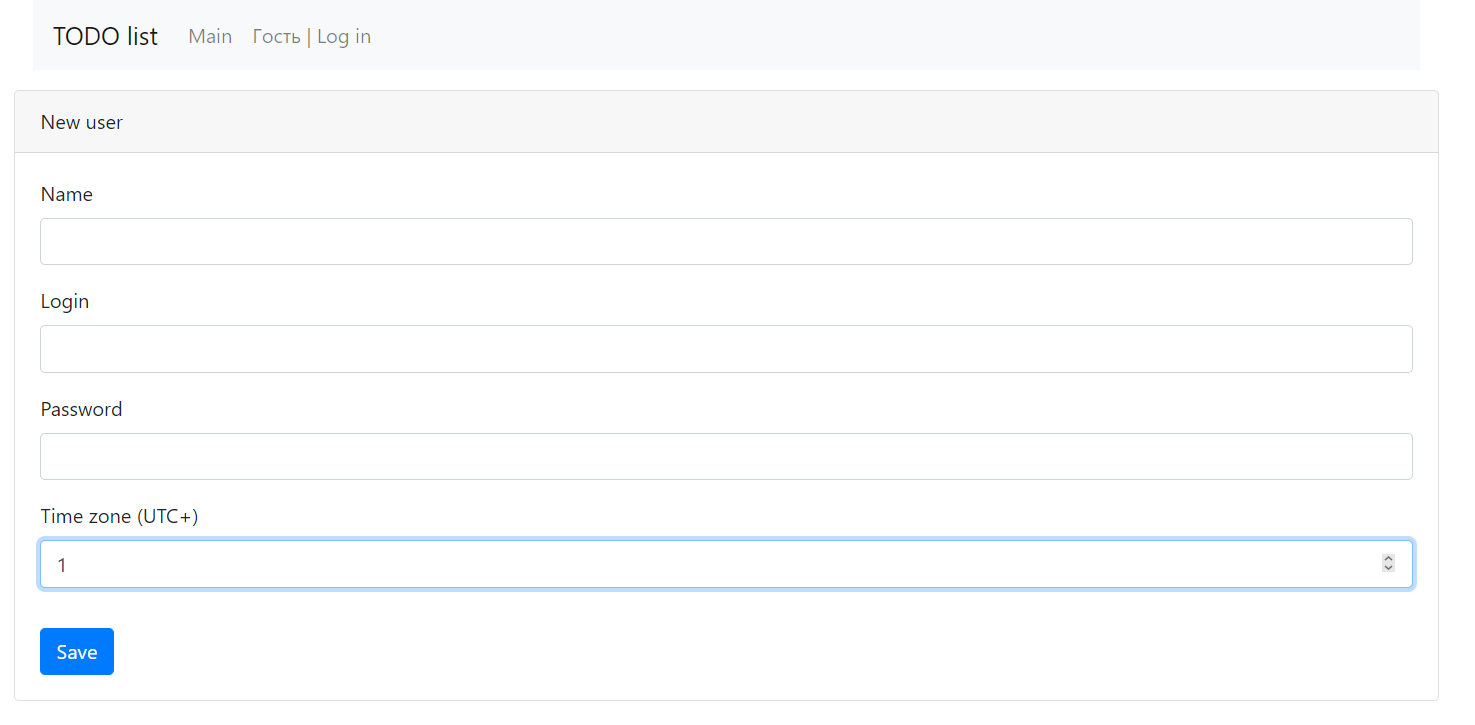
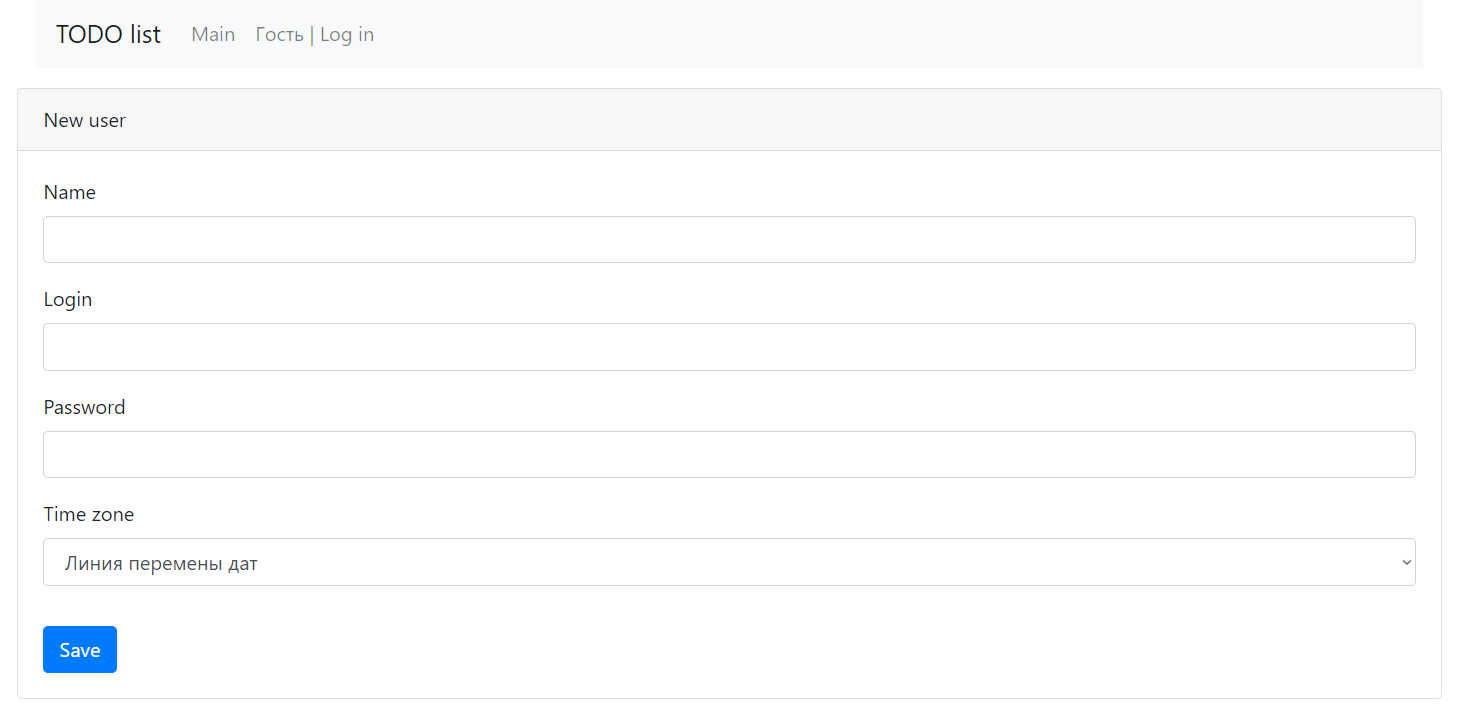
Date (update)

diff --git a/src/main/resources/templates/failSave.html b/src/main/resources/templates/failSave.html
@@ -33,7 +33,7 @@
                 </a>
                 <a class="nav-item nav-link" th:if="${user.name != 'Гость'}" th:href="@{/logout}">
                     <span th:text="${user.name}"></span>
-                    <span> | Log out </span>
+                    <span> | Log out</span>
                 </a>
             </div>
         </div>
@@ -41,30 +41,12 @@
     <div class="row pt-3">
         <div class="card" style="width: 100%">
             <div class="card-header">
-                New user
+                Fail!
             </div>
             <div class="card-body">
-                <form th:action="@{/registration}" method="POST">
-                    <input type="hidden" name="id" value="0"/>
-                    <div class="form-group">
-                        <label for="name">Name</label>
-                        <input type="text" class="form-control" name="name" id="name">
-                    </div>
-                    <div class="form-group">
-                        <label for="login">Login</label>
-                        <input type="text" class="form-control" name="login" id="login">
-                    </div>
-                    <div class="form-group">
-                        <label for="password">Password</label>
-                        <input type="text" class="form-control" name="password" id="password">
-                    </div>
-                    <div class="form-group">
-                        <label for="timeZone.id">Time zone</label>
-                        <select class="form-control" id="timeZone.id" name="timeZone.id">
-                            <option th:each="timeZone : ${timeZones}" th:value="${timeZone.id}" th:text="${timeZone.name}"></option>
-                        </select>
-                    </div>
-                    <button type="submit" class="btn btn-primary mt-3">Save</button>
+                <form th:action="@{/failRedirectSave}" method="POST">
+                    <span th:text="${message}"></span>
+                    <button type="submit" class="btn btn-primary">ОК</button>
                 </form>
             </div>
         </div>

diff --git a/src/main/resources/templates/addTask.html b/src/main/resources/templates/addTask.html
@@ -63,7 +63,7 @@
                     <div class="form-group">
                         <label for="categoryId">Category</label>
                         <select class="form-control" id="categoryId" name="categoryId" multiple="multiple">
-                            <option th:each="category : ${categories}" th:value="${category.id}" th:text="${category.name}"></option>
+                            <option th:each="category : ${categories}" th:value="${category.id}" th:text="${category.name}" th:selected="${category.id == 1}"></option>
                         </select>
                     </div>
                     <button type="submit" class="btn btn-primary">Save</button>

diff --git a/src/main/java/ru/job4j/todo/controller/TaskController.java b/src/main/java/ru/job4j/todo/controller/TaskController.java
@@ -10,6 +10,7 @@ import ru.job4j.todo.model.User;
 import ru.job4j.todo.service.CategoryService;
 import ru.job4j.todo.service.PriorityService;
 import ru.job4j.todo.service.TaskService;
+import ru.job4j.todo.service.TimeZoneService;
 import ru.job4j.todo.utilits.UserSession;
 
 import javax.servlet.http.HttpSession;
@@ -25,6 +26,7 @@ public class TaskController {
     public TaskService taskService;
     public PriorityService priorityService;
     public CategoryService categoryService;
+    public TimeZoneService timeZoneService;
 
     @GetMapping("/addTask")
     public String addTask(Model model, HttpSession session) {
@@ -41,18 +43,30 @@ public class TaskController {
                              @RequestParam(name = "categoryId", required = false)
                              List<Integer> categoriesId,
                              HttpSession session) {
-        int currentUserTimeZone = UserSession.user(session).getTimeZone();
-        String timeZone = currentUserTimeZone == 0 ? "" : currentUserTimeZone > 0
-                ?  String.format("+%s", currentUserTimeZone)
-                : Integer.toString(currentUserTimeZone);
+        var currentUserTimeZone = UserSession.user(session).getTimeZone();
         var time = LocalDateTime.now().atZone(
-                ZoneId.of(String.format("UTC%s", timeZone))
+                ZoneId.of(String.format("UTC%s", currentUserTimeZone.getUtcOffset()))
         ).toLocalDateTime();
         task.setCreated(time);
         task.setPriority(priorityService.findById(priorityId));
         task.setCategories(categoryService.findByIds(categoriesId));
         task.setUser(UserSession.user(session));
-        taskService.add(task);
+        var regUser = taskService.add(task);
+        if (regUser) {
+            return "redirect:/index";
+        }
+        return "redirect:/failSave";
+    }
+
+    @GetMapping("/failSave")
+    public String failSave(Model model, HttpSession session) {
+        model.addAttribute("user", UserSession.user(session));
+        model.addAttribute("message", "Задача с таким именем уже существует");
+        return "failSave";
+    }
+
+    @PostMapping("/failRedirectSave")
+    public String failRedirectSave() {
         return "redirect:/index";
     }
 

diff --git a/src/main/java/ru/job4j/todo/controller/UserController.java b/src/main/java/ru/job4j/todo/controller/UserController.java
@@ -10,6 +10,7 @@ import org.springframework.web.bind.annotation.ModelAttribute;
 import org.springframework.web.bind.annotation.PostMapping;
 import org.springframework.web.bind.annotation.RequestParam;
 import ru.job4j.todo.model.User;
+import ru.job4j.todo.service.TimeZoneService;
 import ru.job4j.todo.service.UserService;
 import ru.job4j.todo.utilits.UserSession;
 
@@ -24,10 +25,12 @@ import java.util.Optional;
 public class UserController {
 
     private final UserService userService;
+    private final TimeZoneService timeZoneService;
 
     @GetMapping("/formAddUser")
     public String addUser(Model model, HttpSession session) {
         model.addAttribute("user", UserSession.user(session));
+        model.addAttribute("timeZones", timeZoneService.findAll());
         return "addUser";
     }
 
@@ -50,7 +53,7 @@ public class UserController {
     }
 
     @PostMapping("/failRedirect")
-    public String failRedirect(Model model) {
+    public String failRedirect() {
         return "redirect:/formAddUser";
     }
 

diff --git a/src/main/java/ru/job4j/todo/store/TimeZoneStore.java b/src/main/java/ru/job4j/todo/store/TimeZoneStore.java
@@ -1,0 +1,29 @@
+package ru.job4j.todo.store;
+
+import lombok.AllArgsConstructor;
+import net.jcip.annotations.ThreadSafe;
+import org.springframework.stereotype.Repository;
+import ru.job4j.todo.model.TimeZone;
+
+import java.util.List;
+import java.util.Map;
+import java.util.Optional;
+
+@ThreadSafe
+@Repository
+@AllArgsConstructor
+public class TimeZoneStore {
+    private final CrudRepository crudRepository;
+
+    private final static String SELECT = "SELECT t FROM TimeZone t";
+    private final static String SELECT_BY_ID = "SELECT t FROM TimeZone t WHERE t.id = :fId";
+
+    public List<TimeZone> findAll() {
+        return crudRepository.query(SELECT, TimeZone.class);
+    }
+
+    public Optional<TimeZone> findById(int timeZoneId) {
+        return crudRepository.optional(SELECT_BY_ID, TimeZone.class,
+                Map.of("fId", timeZoneId));
+    }
+}

diff --git a/src/main/java/ru/job4j/todo/service/TimeZoneService.java b/src/main/java/ru/job4j/todo/service/TimeZoneService.java
@@ -1,0 +1,25 @@
+package ru.job4j.todo.service;
+
+import lombok.AllArgsConstructor;
+import net.jcip.annotations.ThreadSafe;
+import org.springframework.stereotype.Service;
+import ru.job4j.todo.model.TimeZone;
+import ru.job4j.todo.store.TimeZoneStore;
+
+import java.util.List;
+import java.util.Optional;
+
+@Service
+@AllArgsConstructor
+@ThreadSafe
+public class TimeZoneService {
+    private final TimeZoneStore timeZoneStore;
+
+    public List<TimeZone> findAll() {
+        return timeZoneStore.findAll();
+    }
+
+    public Optional<TimeZone> findById(int timeZoneId) {
+        return timeZoneStore.findById(timeZoneId);
+    }
+}

diff --git a/src/main/java/ru/job4j/todo/service/TaskService.java b/src/main/java/ru/job4j/todo/service/TaskService.java
@@ -3,7 +3,6 @@ package ru.job4j.todo.service;
 import lombok.AllArgsConstructor;
 import net.jcip.annotations.ThreadSafe;
 import org.springframework.stereotype.Service;
-import ru.job4j.todo.model.Category;
 import ru.job4j.todo.model.Task;
 import ru.job4j.todo.model.User;
 import ru.job4j.todo.store.TaskStore;
@@ -16,8 +15,8 @@ import java.util.List;
 public class TaskService {
     private final TaskStore taskStore;
 
-    public void add(Task task) {
-        taskStore.add(task);
+    public boolean add(Task task) {
+        return taskStore.add(task);
     }
 
     public List<Task> findAll(User user) {

diff --git a/src/main/java/ru/job4j/todo/model/TimeZone.java b/src/main/java/ru/job4j/todo/model/TimeZone.java
@@ -9,19 +9,16 @@ import javax.persistence.*;
 
 @Data
 @Entity
-@Table(name = "users")
+@Table(name = "timezones")
 @EqualsAndHashCode(onlyExplicitlyIncluded = true)
 @AllArgsConstructor
 @NoArgsConstructor
-public class User {
+public class TimeZone {
     @Id
     @GeneratedValue(strategy = GenerationType.IDENTITY)
     @EqualsAndHashCode.Include
     private int id;
     private String name;
-    private String login;
-    private String password;
-    @ManyToOne()
-    @JoinColumn(name = "timezone_id")
-    private TimeZone timeZone;
+    @Column(name = "utc_offset")
+    private String utcOffset;
 }

diff --git a/src/main/java/ru/job4j/todo/store/TaskStore.java b/src/main/java/ru/job4j/todo/store/TaskStore.java
@@ -33,8 +33,14 @@ public class TaskStore {
                                                """;
     private final static String UPDATE_COMPLETE = String.format(UPDATE, "SET done = :fDone");
 
-    public void add(Task task) {
-        crudRepository.run(session -> session.save(task));
+    public boolean add(Task task) {
+        boolean rsl = true;
+        try {
+            crudRepository.run(session -> session.save(task));
+        } catch (Exception e) {
+            rsl = false;
+        }
+        return rsl;
     }
 
     public List<Task> findAll(User user) {

diff --git a/README.md b/README.md
@@ -12,13 +12,13 @@
 
 Стек используемых технологий:
 * Java 17;
-* PostgreSQL JDBC 42.2.9;
+* PostgreSQL JDBC 42.5.0;
 * Spring boot 2.7.3;
 * Thymeleaf 3.0.15;
 * Bootstrap v4.4.1;
 * liquibase 4.15.0;
 * Hibernate 5.6.11.Final;
-* Lombok 1.18.22.
+* Lombok 1.18.24.
 
 Перед запуском проекта необходимо создать базу данных **'TODO'** и указать
 **_login/password_** в файле _src/main/resources/hibernate.cfg.xml_;
@@ -36,19 +36,21 @@ mvn spring-boot:run
 ![img.png](src/img/FailAuth.png)
 3. _Регистрация нового пользователя:_
 ![img.png](src/img/NewUser.png)
-4. _Ошибка при регистрации пользователя с логином, которые уже есть в базе:_
+4. Выбор часового пояса, при регистрации
+![img.png](src/img/TimeZone.png)
+5. _Ошибка при регистрации пользователя с логином, которые уже есть в базе:_
 ![img.png](src/img/Fail.png)
-5. _Главное окно (список всех задач):_
+6. _Главное окно (список всех задач):_
 ![img.png](src/img/AllTasks.png)
-6. _Главное окно (список с отбором по выполненным):_
+7. _Главное окно (список с отбором по выполненным):_
 ![img.png](src/img/CompletedTasks.png)
-7. _Главное окно (список с отбором по новым-невыполненным задачам):_
+8. _Главное окно (список с отбором по новым-невыполненным задачам):_
 ![img.png](src/img/NewTasks.png)
-8. _Окно создания новой задачи:_
+9. _Окно создания новой задачи:_
 ![img.png](src/img/AddTasks.png)
-9. _Окно подробно (задача выполнена):_
+10. _Окно подробно (задача выполнена):_
 ![img.png](src/img/CompletedTask.png)
-10. _Окно подробно (задача не выполнена):_
+11. _Окно подробно (задача не выполнена):_
 ![img_1.png](src/img/NewTask.png)
-11. _Окно редактирования задачи:_
+12. _Окно редактирования задачи:_
 ![img.png](src/img/UpdateTask.png)
